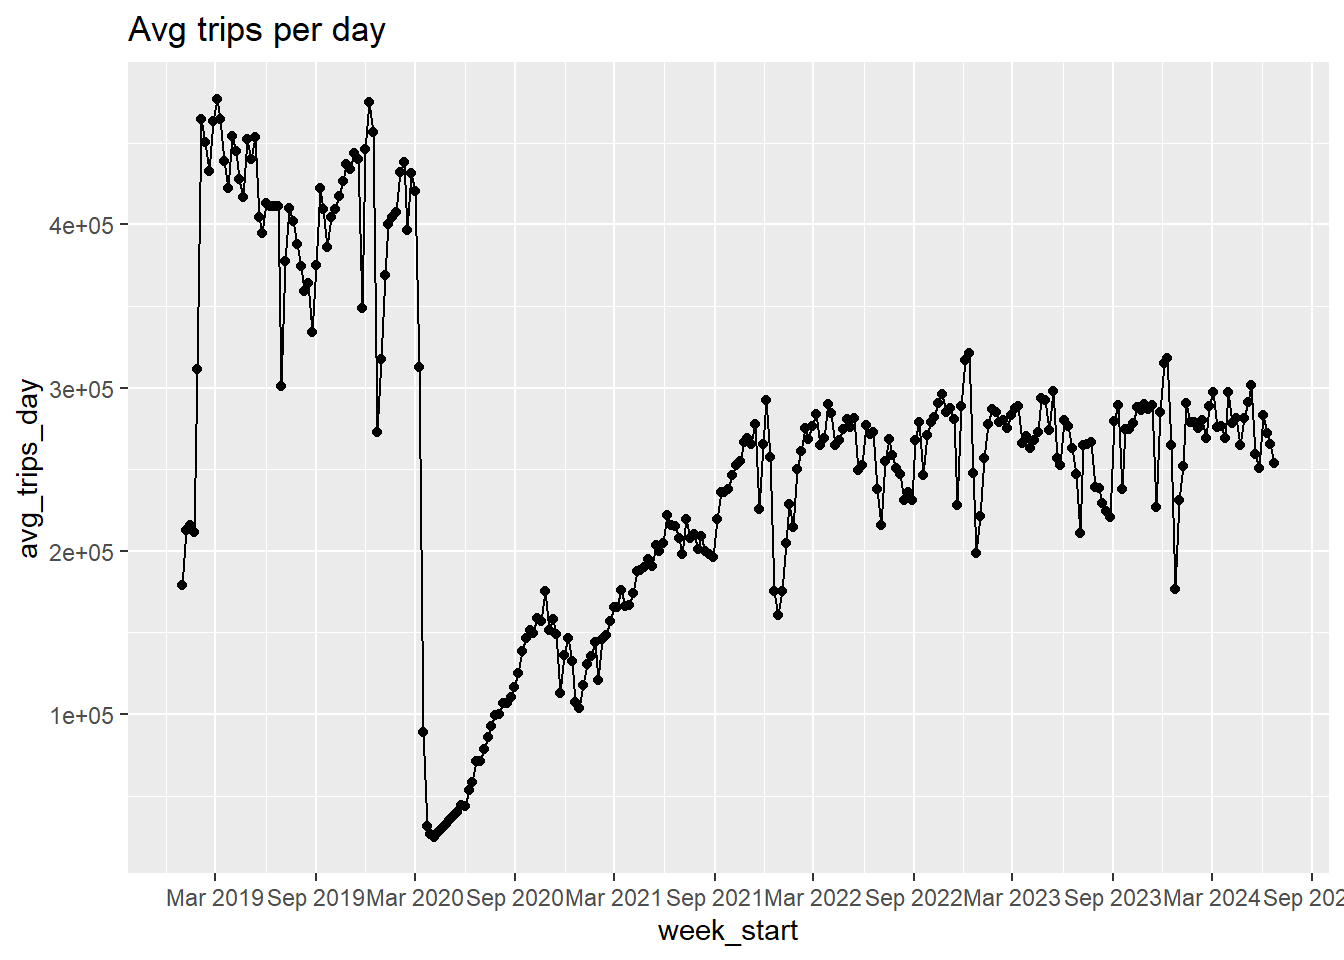
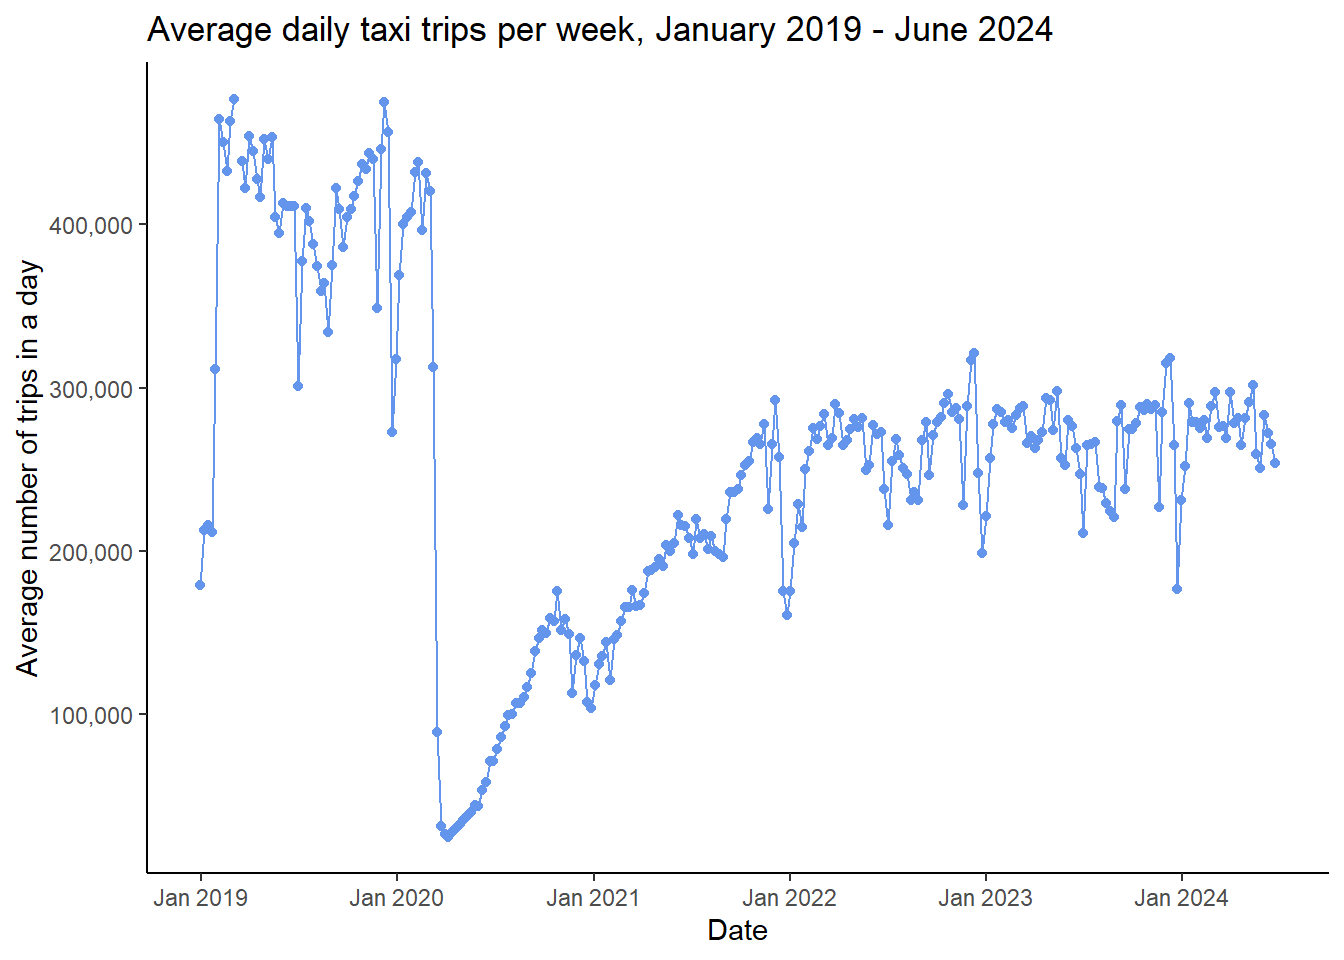
add descriptions to index plots

diff --git a/docs/index.html b/docs/index.html
@@ -185,7 +185,10 @@ pre > code.sourceCode > span > a:first-child::before { text-decoration: underlin
     <h2 id="toc-title">Table of contents</h2>
    
   <ul>
-  <li><a href="#introduction" id="toc-introduction" class="nav-link active" data-scroll-target="#introduction"><span class="header-section-number">1</span> Introduction</a></li>
+  <li><a href="#introduction" id="toc-introduction" class="nav-link active" data-scroll-target="#introduction"><span class="header-section-number">1</span> Introduction</a>
+  <ul class="collapse">
+  <li><a href="#a-glance-at-the-data" id="toc-a-glance-at-the-data" class="nav-link" data-scroll-target="#a-glance-at-the-data"><span class="header-section-number">1.1</span> A glance at the data</a></li>
+  </ul></li>
   </ul>
 <div class="toc-actions"><ul><li><a href="https://github.com/sophiewagner7/nyc-weather/edit/main/index.qmd" class="toc-action"><i class="bi bi-github"></i>Edit this page</a></li><li><a href="https://github.com/sophiewagner7/nyc-weather/issues/new" class="toc-action"><i class="bi empty"></i>Report an issue</a></li></ul></div></nav>
     </div>
@@ -229,6 +232,9 @@ pre > code.sourceCode > span > a:first-child::before { text-decoration: underlin
 <p>At first, Moacir was interested in seeing if there is a relationship between “unseasonably” warm weather and New York and drought like conditions, but Sophie suggested crossing in a dataset from a different domain and seeing what kinds of results could emerge. Instead of just looking at the weather, perhaps we can draw a relationship between human behavioral response to the weather. What might this look like? After a bit of discussion, we had a preliminary idea of testing the hypothesis that people use cabs less often when it is “nice” out in Manhattan. That is, they are more inclined to walk to their destination than hail an expensive cab.</p>
 <p>Quickly it was clear, however, that proving this hypothesis would require coming up with a definition of “nice,” so we flipped the project: we’re assuming as true that people are more inclined to walk when the weather is nice, so we are using the taxi data to see if we can define what “nice” weather is. Does it just mean sunny skies, or does it have a relationship to a temperature threshold? How might relative temperature come into play, such as an unusually warm day after a cold spell, impact people’s inclination to walk? And does the effect wear off if there are multiple nice days in a row, and the novelty of walking gives way to taking cabs again? These questions struck us as more amusing and speculative, so we decided to pursue them, instead.</p>
 <p>Overall, our project explores how weather influences the small, everyday decisions which collectively shape urban life. The unique spatial and temporal granularity of taxi data allows us to capture patterns of human mobility with precision. By doing so, we may observe behavioral shifts in response to weather changes in real time. Such a study not only provides a unique lens into how people adapt their transportation preferences due to the weather, but also serves as a microcosm for understanding human responses to environmental factors. Such insights are particularly relevant in a large, dynamic city like New York.</p>
+<section id="a-glance-at-the-data" class="level2" data-number="1.1">
+<h2 data-number="1.1" class="anchored" data-anchor-id="a-glance-at-the-data"><span class="header-section-number">1.1</span> A glance at the data</h2>
+<p>Let’s take a quick peek at the data. Below we have weekly averages for daily temperature and taxi rides from January 2019 to June 2024.</p>
 <div class="cell">
 <details class="code-fold">
 <summary>Code</summary>
@@ -238,70 +244,70 @@ pre > code.sourceCode > span > a:first-child::before { text-decoration: underlin
 <span id="cb1-4"><a href="#cb1-4" aria-hidden="true" tabindex="-1"></a><span class="fu">library</span>(lubridate)</span>
 <span id="cb1-5"><a href="#cb1-5" aria-hidden="true" tabindex="-1"></a><span class="fu">library</span>(scales)</span>
 <span id="cb1-6"><a href="#cb1-6" aria-hidden="true" tabindex="-1"></a><span class="fu">library</span>(tidyr)</span>
-<span id="cb1-7"><a href="#cb1-7" aria-hidden="true" tabindex="-1"></a>df <span class="ot">&lt;-</span> <span class="fu">read_parquet</span>(<span class="st">"data/complete_weather_and_taxi_data.parquet"</span>)</span></code><button title="Copy to Clipboard" class="code-copy-button"><i class="bi"></i></button></pre></div>
+<span id="cb1-7"><a href="#cb1-7" aria-hidden="true" tabindex="-1"></a>df <span class="ot">&lt;-</span> <span class="fu">read_parquet</span>(<span class="st">"data/complete_weather_and_taxi_data.parquet"</span>)</span>
+<span id="cb1-8"><a href="#cb1-8" aria-hidden="true" tabindex="-1"></a>df_day <span class="ot">&lt;-</span> df <span class="sc">|&gt;</span> </span>
+<span id="cb1-9"><a href="#cb1-9" aria-hidden="true" tabindex="-1"></a>    <span class="fu">group_by</span>(date) <span class="sc">|&gt;</span> </span>
+<span id="cb1-10"><a href="#cb1-10" aria-hidden="true" tabindex="-1"></a>    <span class="fu">summarize</span>(<span class="at">total_trips_day =</span> <span class="fu">sum</span>(trip_count)) <span class="sc">|&gt;</span> </span>
+<span id="cb1-11"><a href="#cb1-11" aria-hidden="true" tabindex="-1"></a>    <span class="fu">select</span>(date, total_trips_day)</span>
+<span id="cb1-12"><a href="#cb1-12" aria-hidden="true" tabindex="-1"></a>df_day <span class="sc">|&gt;</span> </span>
+<span id="cb1-13"><a href="#cb1-13" aria-hidden="true" tabindex="-1"></a>    <span class="fu">mutate</span>(<span class="at">week_start=</span>lubridate<span class="sc">::</span><span class="fu">floor_date</span>(date, <span class="at">unit=</span><span class="st">"week"</span>)) <span class="sc">|&gt;</span></span>
+<span id="cb1-14"><a href="#cb1-14" aria-hidden="true" tabindex="-1"></a>    <span class="fu">group_by</span>(week_start) <span class="sc">|&gt;</span></span>
+<span id="cb1-15"><a href="#cb1-15" aria-hidden="true" tabindex="-1"></a>    <span class="fu">summarize</span>(<span class="at">avg_trips_day =</span> <span class="fu">mean</span>(total_trips_day))<span class="sc">|&gt;</span></span>
+<span id="cb1-16"><a href="#cb1-16" aria-hidden="true" tabindex="-1"></a>    <span class="fu">ggplot</span>(<span class="fu">aes</span>(<span class="at">x=</span>week_start, <span class="at">y=</span>avg_trips_day)) <span class="sc">+</span></span>
+<span id="cb1-17"><a href="#cb1-17" aria-hidden="true" tabindex="-1"></a>        <span class="fu">geom_point</span>(<span class="at">color=</span><span class="st">"cornflowerblue"</span>) <span class="sc">+</span></span>
+<span id="cb1-18"><a href="#cb1-18" aria-hidden="true" tabindex="-1"></a>        <span class="fu">geom_line</span>(<span class="at">color=</span><span class="st">"cornflowerblue"</span>) <span class="sc">+</span> </span>
+<span id="cb1-19"><a href="#cb1-19" aria-hidden="true" tabindex="-1"></a>        <span class="fu">scale_x_date</span>(<span class="at">date_labels =</span> <span class="st">"%b %Y"</span>, <span class="at">date_breaks =</span> <span class="st">"1 year"</span>) <span class="sc">+</span></span>
+<span id="cb1-20"><a href="#cb1-20" aria-hidden="true" tabindex="-1"></a>        <span class="fu">scale_y_continuous</span>(<span class="at">labels =</span> comma) <span class="sc">+</span></span>
+<span id="cb1-21"><a href="#cb1-21" aria-hidden="true" tabindex="-1"></a>        <span class="fu">labs</span>(<span class="at">title=</span><span class="st">"Average daily taxi trips per week, January 2019 - June 2024"</span>,</span>
+<span id="cb1-22"><a href="#cb1-22" aria-hidden="true" tabindex="-1"></a>             <span class="at">x =</span> <span class="st">"Date"</span>, </span>
+<span id="cb1-23"><a href="#cb1-23" aria-hidden="true" tabindex="-1"></a>             <span class="at">y =</span> <span class="st">"Average number of trips in a day"</span>) <span class="sc">+</span></span>
+<span id="cb1-24"><a href="#cb1-24" aria-hidden="true" tabindex="-1"></a>        <span class="fu">theme_classic</span>()</span></code><button title="Copy to Clipboard" class="code-copy-button"><i class="bi"></i></button></pre></div>
 </details>
+<div class="cell-output-display">
+<div>
+<figure class="figure">
+<p><img src="index_files/figure-html/unnamed-chunk-1-1.png" class="img-fluid figure-img" width="672"></p>
+</figure>
 </div>
+</div>
+</div>
+<p>Considering the taxi data, there are many narratives that can be told. The most notable observation on the chart is the dramatic decline in ridership in March 2020, coinciding with the beginning of the COVID-19 pandemic. While ridership has increased since, it has not nearly returned to pre-pandemic levels. This trend is likely influenced by the shift towards a more work-from-home friendly economic environment, along with other behavioral changes.</p>
+<p>We can also observe seasonal fluctuations; for example, it appears that there are dips and peaks around January of each year. These could be attributed to behavioral changes around the holidays, including increased travel around the holidays, staying in on the holidays themselves, or different travel patterns due to the weather. We will have to look at this with a lot more granularity in order to parse out further trends in the data.</p>
 <div class="cell">
 <details class="code-fold">
 <summary>Code</summary>
 <div class="sourceCode cell-code" id="cb2"><pre class="sourceCode r code-with-copy"><code class="sourceCode r"><span id="cb2-1"><a href="#cb2-1" aria-hidden="true" tabindex="-1"></a>df_day <span class="ot">&lt;-</span> df <span class="sc">|&gt;</span> </span>
-<span id="cb2-2"><a href="#cb2-2" aria-hidden="true" tabindex="-1"></a>    <span class="fu">group_by</span>(date) <span class="sc">|&gt;</span> </span>
-<span id="cb2-3"><a href="#cb2-3" aria-hidden="true" tabindex="-1"></a>    <span class="fu">summarize</span>(<span class="at">total_trips_day =</span> <span class="fu">sum</span>(trip_count)) <span class="sc">|&gt;</span> </span>
-<span id="cb2-4"><a href="#cb2-4" aria-hidden="true" tabindex="-1"></a>    <span class="fu">select</span>(date, total_trips_day)</span>
-<span id="cb2-5"><a href="#cb2-5" aria-hidden="true" tabindex="-1"></a>df_day <span class="sc">|&gt;</span> </span>
-<span id="cb2-6"><a href="#cb2-6" aria-hidden="true" tabindex="-1"></a>    <span class="fu">mutate</span>(<span class="at">week_start=</span>lubridate<span class="sc">::</span><span class="fu">floor_date</span>(date, <span class="at">unit=</span><span class="st">"week"</span>)) <span class="sc">|&gt;</span></span>
-<span id="cb2-7"><a href="#cb2-7" aria-hidden="true" tabindex="-1"></a>    <span class="fu">group_by</span>(week_start) <span class="sc">|&gt;</span></span>
-<span id="cb2-8"><a href="#cb2-8" aria-hidden="true" tabindex="-1"></a>    <span class="fu">summarize</span>(<span class="at">avg_trips_day =</span> <span class="fu">mean</span>(total_trips_day))<span class="sc">|&gt;</span></span>
-<span id="cb2-9"><a href="#cb2-9" aria-hidden="true" tabindex="-1"></a>    <span class="fu">ggplot</span>(<span class="fu">aes</span>(<span class="at">x=</span>week_start, <span class="at">y=</span>avg_trips_day), <span class="at">color=</span><span class="st">"cornflowerblue"</span>) <span class="sc">+</span></span>
-<span id="cb2-10"><a href="#cb2-10" aria-hidden="true" tabindex="-1"></a>        <span class="fu">geom_point</span>() <span class="sc">+</span></span>
-<span id="cb2-11"><a href="#cb2-11" aria-hidden="true" tabindex="-1"></a>        <span class="fu">geom_line</span>() <span class="sc">+</span> </span>
-<span id="cb2-12"><a href="#cb2-12" aria-hidden="true" tabindex="-1"></a>        <span class="fu">scale_x_date</span>(<span class="at">date_labels =</span> <span class="st">"%b %Y"</span>, <span class="at">date_breaks =</span> <span class="st">"1 year"</span>) <span class="sc">+</span></span>
-<span id="cb2-13"><a href="#cb2-13" aria-hidden="true" tabindex="-1"></a>        <span class="fu">scale_y_continuous</span>(<span class="at">labels =</span> comma) <span class="sc">+</span></span>
-<span id="cb2-14"><a href="#cb2-14" aria-hidden="true" tabindex="-1"></a>        <span class="fu">labs</span>(<span class="at">title=</span><span class="st">"Average daily taxi trips per week, January 2019-December 2024"</span>,</span>
-<span id="cb2-15"><a href="#cb2-15" aria-hidden="true" tabindex="-1"></a>             <span class="at">x =</span> <span class="st">"Date"</span>, </span>
-<span id="cb2-16"><a href="#cb2-16" aria-hidden="true" tabindex="-1"></a>             <span class="at">y =</span> <span class="st">"Average number of trips in a day"</span>) <span class="sc">+</span></span>
-<span id="cb2-17"><a href="#cb2-17" aria-hidden="true" tabindex="-1"></a>        <span class="fu">theme_classic</span>()</span></code><button title="Copy to Clipboard" class="code-copy-button"><i class="bi"></i></button></pre></div>
+<span id="cb2-2"><a href="#cb2-2" aria-hidden="true" tabindex="-1"></a>    <span class="fu">filter</span>(<span class="sc">!</span><span class="fu">is.na</span>(temperature)) <span class="sc">|&gt;</span></span>
+<span id="cb2-3"><a href="#cb2-3" aria-hidden="true" tabindex="-1"></a>    <span class="fu">group_by</span>(date) <span class="sc">|&gt;</span> </span>
+<span id="cb2-4"><a href="#cb2-4" aria-hidden="true" tabindex="-1"></a>    <span class="fu">summarize</span>(<span class="at">daily_temp =</span> <span class="fu">mean</span>(temperature)) <span class="sc">|&gt;</span> </span>
+<span id="cb2-5"><a href="#cb2-5" aria-hidden="true" tabindex="-1"></a>    <span class="fu">select</span>(date, daily_temp)</span>
+<span id="cb2-6"><a href="#cb2-6" aria-hidden="true" tabindex="-1"></a>df_day <span class="sc">|&gt;</span> </span>
+<span id="cb2-7"><a href="#cb2-7" aria-hidden="true" tabindex="-1"></a>    <span class="fu">mutate</span>(<span class="at">week_start=</span>lubridate<span class="sc">::</span><span class="fu">floor_date</span>(date, <span class="at">unit=</span><span class="st">"week"</span>)) <span class="sc">|&gt;</span></span>
+<span id="cb2-8"><a href="#cb2-8" aria-hidden="true" tabindex="-1"></a>    <span class="fu">group_by</span>(week_start) <span class="sc">|&gt;</span></span>
+<span id="cb2-9"><a href="#cb2-9" aria-hidden="true" tabindex="-1"></a>    <span class="fu">summarize</span>(<span class="at">avg_temp_day =</span> <span class="fu">mean</span>(daily_temp)) <span class="sc">|&gt;</span></span>
+<span id="cb2-10"><a href="#cb2-10" aria-hidden="true" tabindex="-1"></a>    <span class="fu">ggplot</span>(<span class="fu">aes</span>(<span class="at">x=</span>week_start, <span class="at">y=</span>avg_temp_day)) <span class="sc">+</span></span>
+<span id="cb2-11"><a href="#cb2-11" aria-hidden="true" tabindex="-1"></a>        <span class="fu">geom_point</span>(<span class="at">color=</span><span class="st">"cornflowerblue"</span>) <span class="sc">+</span></span>
+<span id="cb2-12"><a href="#cb2-12" aria-hidden="true" tabindex="-1"></a>        <span class="fu">geom_line</span>(<span class="at">color=</span><span class="st">"cornflowerblue"</span>) <span class="sc">+</span> </span>
+<span id="cb2-13"><a href="#cb2-13" aria-hidden="true" tabindex="-1"></a>        <span class="fu">geom_hline</span>(<span class="at">yintercept=</span><span class="dv">0</span>)<span class="sc">+</span></span>
+<span id="cb2-14"><a href="#cb2-14" aria-hidden="true" tabindex="-1"></a>        <span class="fu">scale_x_date</span>(<span class="at">date_labels =</span> <span class="st">"%b %Y"</span>, <span class="at">date_breaks =</span> <span class="st">"1 year"</span>) <span class="sc">+</span></span>
+<span id="cb2-15"><a href="#cb2-15" aria-hidden="true" tabindex="-1"></a>        <span class="fu">labs</span>(<span class="at">title=</span><span class="st">"Average weekly temp, January 2019 - June 2024"</span>,</span>
+<span id="cb2-16"><a href="#cb2-16" aria-hidden="true" tabindex="-1"></a>             <span class="at">x =</span> <span class="st">"Date"</span>, </span>
+<span id="cb2-17"><a href="#cb2-17" aria-hidden="true" tabindex="-1"></a>             <span class="at">y =</span> <span class="st">"Tempurature (Celsius)"</span>) <span class="sc">+</span></span>
+<span id="cb2-18"><a href="#cb2-18" aria-hidden="true" tabindex="-1"></a>        <span class="fu">theme_classic</span>()</span></code><button title="Copy to Clipboard" class="code-copy-button"><i class="bi"></i></button></pre></div>
 </details>
 <div class="cell-output-display">
 <div>
 <figure class="figure">
-<p><img src="index_files/figure-html/unnamed-chunk-2-1.png" class="img-fluid figure-img" width="672"></p>
+<p><img src="index_files/figure-html/unnamed-chunk-2-1.png" class="img-fluid figure-img" width="768"></p>
 </figure>
 </div>
 </div>
 </div>
-<div class="cell">
-<details class="code-fold">
-<summary>Code</summary>
-<div class="sourceCode cell-code" id="cb3"><pre class="sourceCode r code-with-copy"><code class="sourceCode r"><span id="cb3-1"><a href="#cb3-1" aria-hidden="true" tabindex="-1"></a>df_day <span class="ot">&lt;-</span> df <span class="sc">|&gt;</span> </span>
-<span id="cb3-2"><a href="#cb3-2" aria-hidden="true" tabindex="-1"></a>    <span class="fu">filter</span>(<span class="sc">!</span><span class="fu">is.na</span>(temperature)) <span class="sc">|&gt;</span></span>
-<span id="cb3-3"><a href="#cb3-3" aria-hidden="true" tabindex="-1"></a>    <span class="fu">group_by</span>(date) <span class="sc">|&gt;</span> </span>
-<span id="cb3-4"><a href="#cb3-4" aria-hidden="true" tabindex="-1"></a>    <span class="fu">summarize</span>(<span class="at">daily_temp =</span> <span class="fu">mean</span>(temperature)) <span class="sc">|&gt;</span> </span>
-<span id="cb3-5"><a href="#cb3-5" aria-hidden="true" tabindex="-1"></a>    <span class="fu">select</span>(date, daily_temp)</span>
-<span id="cb3-6"><a href="#cb3-6" aria-hidden="true" tabindex="-1"></a>df_day <span class="sc">|&gt;</span> </span>
-<span id="cb3-7"><a href="#cb3-7" aria-hidden="true" tabindex="-1"></a>    <span class="fu">mutate</span>(<span class="at">week_start=</span>lubridate<span class="sc">::</span><span class="fu">floor_date</span>(date, <span class="at">unit=</span><span class="st">"week"</span>)) <span class="sc">|&gt;</span></span>
-<span id="cb3-8"><a href="#cb3-8" aria-hidden="true" tabindex="-1"></a>    <span class="fu">group_by</span>(week_start) <span class="sc">|&gt;</span></span>
-<span id="cb3-9"><a href="#cb3-9" aria-hidden="true" tabindex="-1"></a>    <span class="fu">summarize</span>(<span class="at">avg_temp_day =</span> <span class="fu">mean</span>(daily_temp)) <span class="sc">|&gt;</span></span>
-<span id="cb3-10"><a href="#cb3-10" aria-hidden="true" tabindex="-1"></a>    <span class="fu">ggplot</span>(<span class="fu">aes</span>(<span class="at">x=</span>week_start, <span class="at">y=</span>avg_temp_day), <span class="at">color=</span><span class="st">"salmon"</span>) <span class="sc">+</span></span>
-<span id="cb3-11"><a href="#cb3-11" aria-hidden="true" tabindex="-1"></a>        <span class="fu">geom_point</span>() <span class="sc">+</span></span>
-<span id="cb3-12"><a href="#cb3-12" aria-hidden="true" tabindex="-1"></a>        <span class="fu">geom_line</span>() <span class="sc">+</span> </span>
-<span id="cb3-13"><a href="#cb3-13" aria-hidden="true" tabindex="-1"></a>        <span class="fu">geom_hline</span>(<span class="at">yintercept=</span><span class="dv">0</span>)<span class="sc">+</span></span>
-<span id="cb3-14"><a href="#cb3-14" aria-hidden="true" tabindex="-1"></a>        <span class="fu">scale_x_date</span>(<span class="at">date_labels =</span> <span class="st">"%b %Y"</span>, <span class="at">date_breaks =</span> <span class="st">"1 year"</span>) <span class="sc">+</span></span>
-<span id="cb3-15"><a href="#cb3-15" aria-hidden="true" tabindex="-1"></a>        <span class="fu">labs</span>(<span class="at">title=</span><span class="st">"Average weekly temp, January 2019-December 2024"</span>,</span>
-<span id="cb3-16"><a href="#cb3-16" aria-hidden="true" tabindex="-1"></a>             <span class="at">x =</span> <span class="st">"Date"</span>, </span>
-<span id="cb3-17"><a href="#cb3-17" aria-hidden="true" tabindex="-1"></a>             <span class="at">y =</span> <span class="st">"Tempurature (Celsius)"</span>) <span class="sc">+</span></span>
-<span id="cb3-18"><a href="#cb3-18" aria-hidden="true" tabindex="-1"></a>        <span class="fu">theme_classic</span>()</span></code><button title="Copy to Clipboard" class="code-copy-button"><i class="bi"></i></button></pre></div>
-</details>
-<div class="cell-output-display">
-<div>
-<figure class="figure">
-<p><img src="index_files/figure-html/unnamed-chunk-3-1.png" class="img-fluid figure-img" width="768"></p>
-</figure>
-</div>
-</div>
-</div>
+<p>Average weekly temperature looks fairly consistent over time, with expected seasonal peaks and valleys across the year. There may be a subtle trend of slightly higher average temperatures in more recent years, but nothing too definitive.</p>
+<p>As just one data point, temperature provides a limited slice into what may distinguish a “nice day.” In the next chapter, we will see that it will be necessary to calculate additional numeric and categorical weather measurements to help establish this definition. Ideas include change in temperature and a simple categorical variable for cloud cover derived from the multiple columns currently devoted to cloud cover.</p>
 
 
+</section>
 </section>
 
 </main> <!-- /main -->
